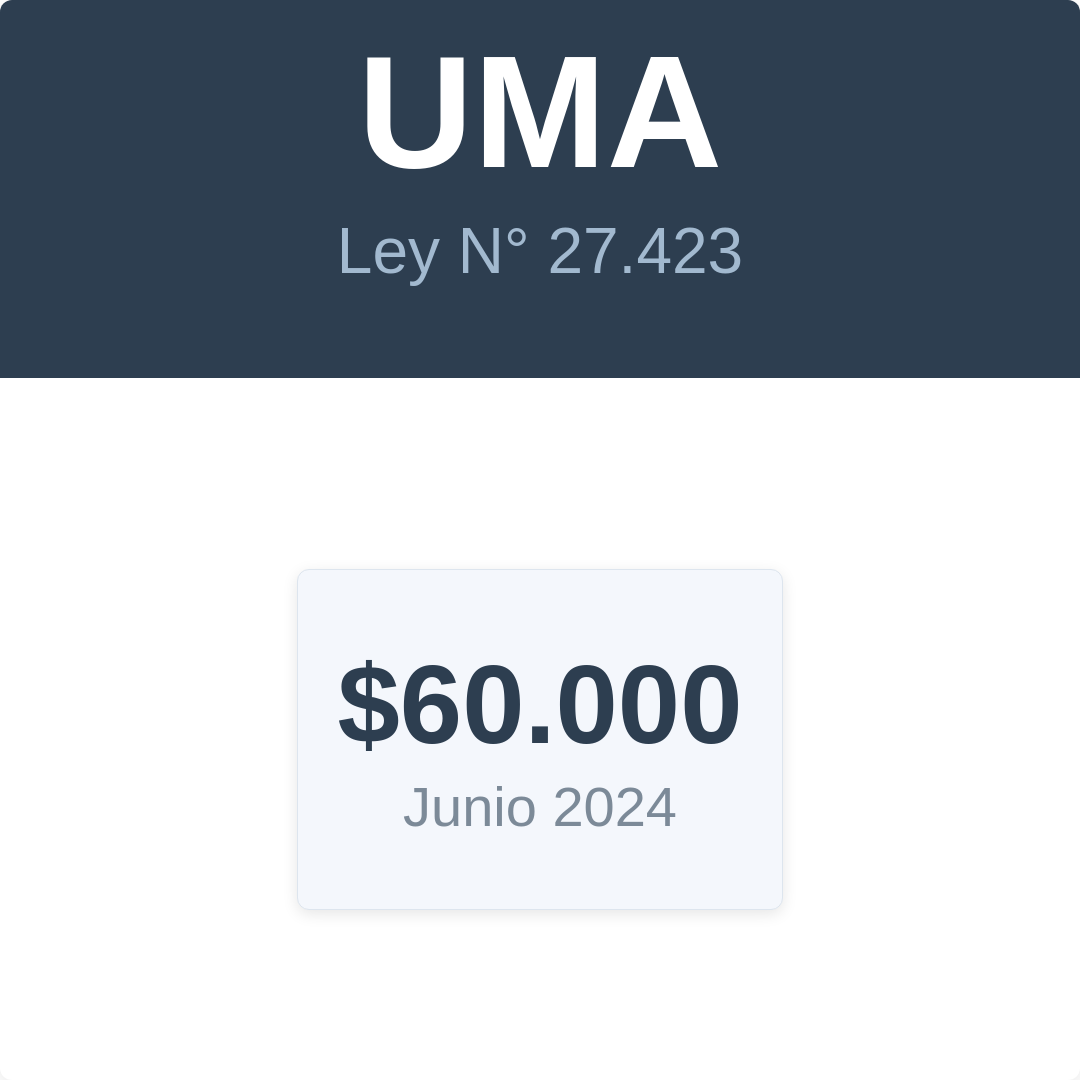
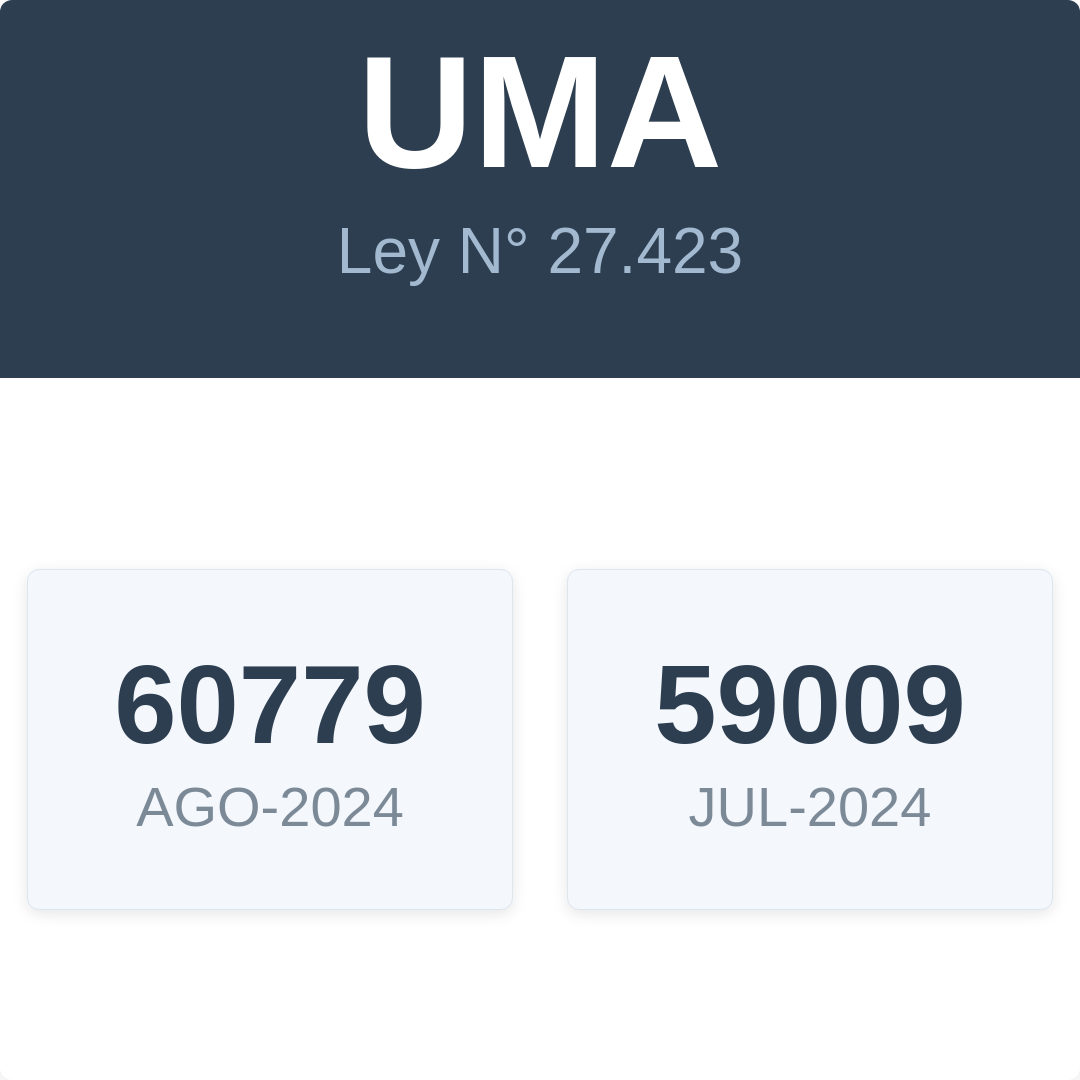
feature/ ig posts

Changed region(s): [[0.0917, 0.6111, 0.9167, 0.7028], [0.1222, 0.7333, 0.8556, 0.7639]]

diff --git a/src/services/cronJobs.js b/src/services/cronJobs.js
@@ -34,16 +34,16 @@ function getIdArray(objectsArray) {
 function extractMontoAndPeriodo(dataArray) {
   return dataArray.map(({ monto, periodo }) => ({ monto, periodo }));
 }
-
 const startCronJobs = async () => {
   //const fees = await findUnnotifiedFees(FeesModel);
   const lastFees = await findLatestFees(FeesModel);
-  console.log(lastFees);
   const array = extractMontoAndPeriodo(lastFees);
   console.log(array);
-  await generateScreenshot(
-    newFeesPosts([{ price: "$60.000", date: "Junio 2024" }])
-  );
+
+  
+  /* await generateScreenshot(
+    newFeesPosts(array)
+  ); */
 
   // Cron que envia mensajes Noticias a Telegram bot no notificados
   cron.schedule(

diff --git a/src/posts/intagramPosts.js b/src/posts/intagramPosts.js
@@ -3,8 +3,8 @@ const newFeesPosts = (array) => {
     .map(
       (item) => `
         <div class="box">
-          <p class="price">${item.price}</p>
-          <p class="date">${item.date}</p>
+          <p class="price">${item.monto}</p>
+          <p class="date">${item.periodo}</p>
         </div>
       `
     )
